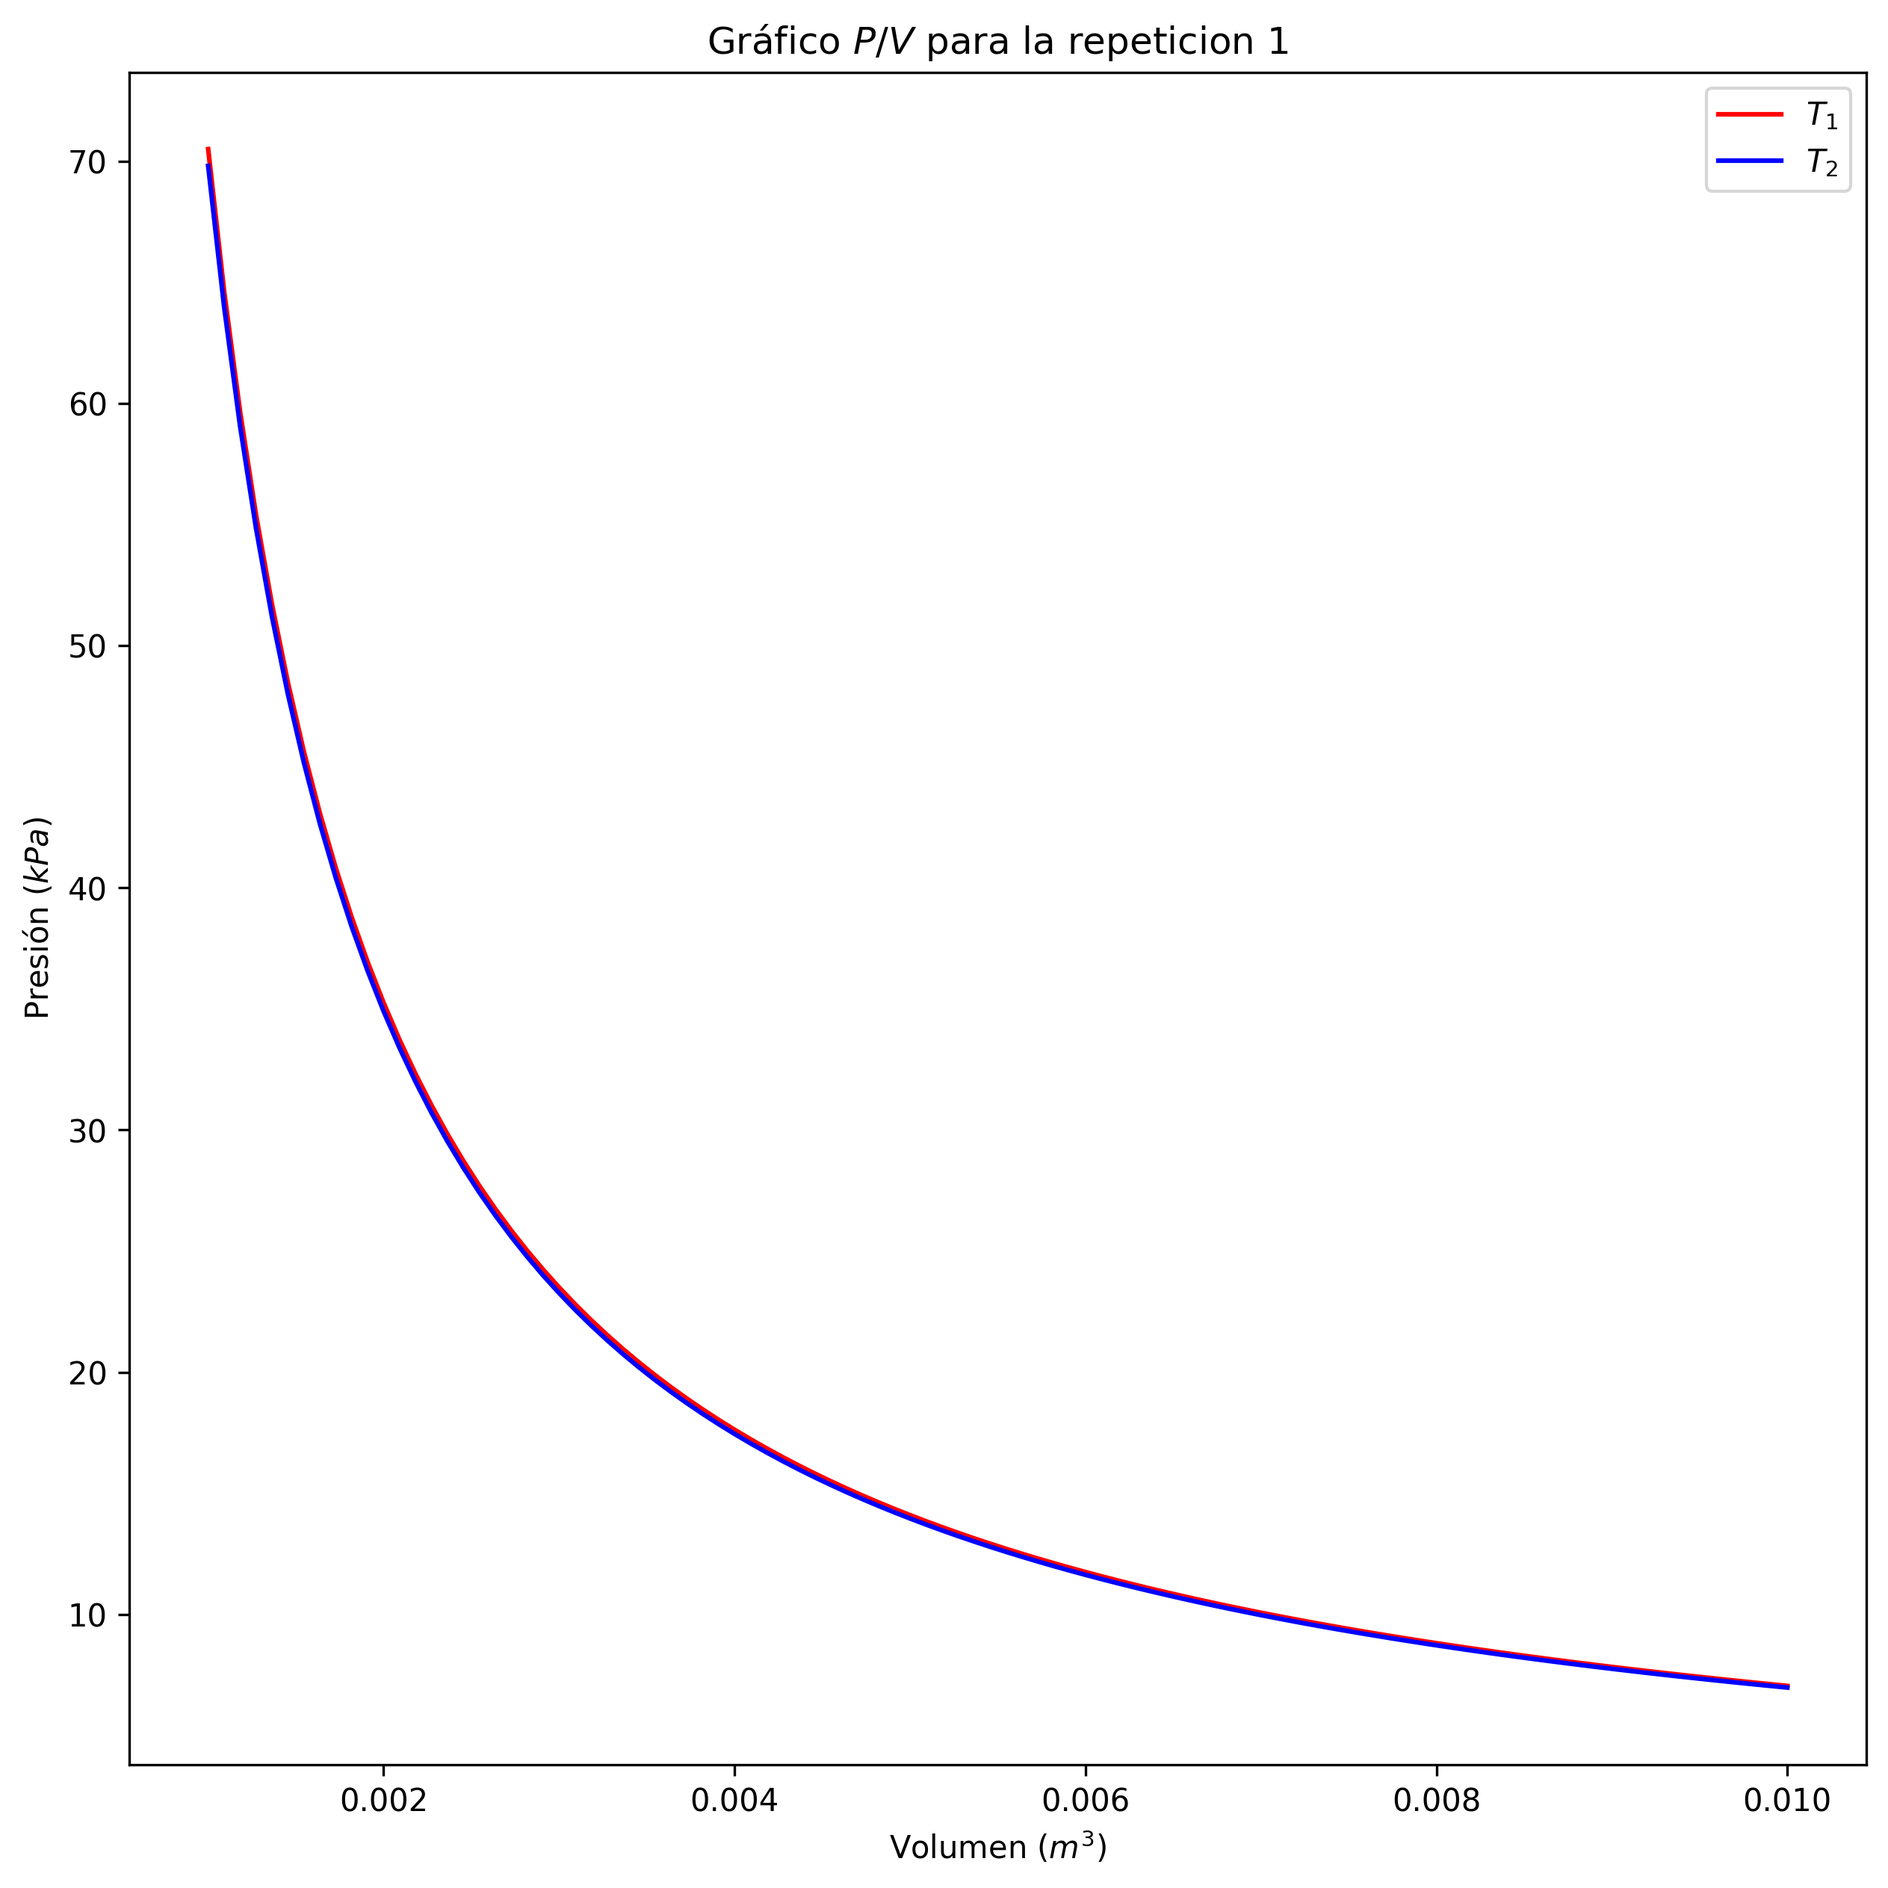
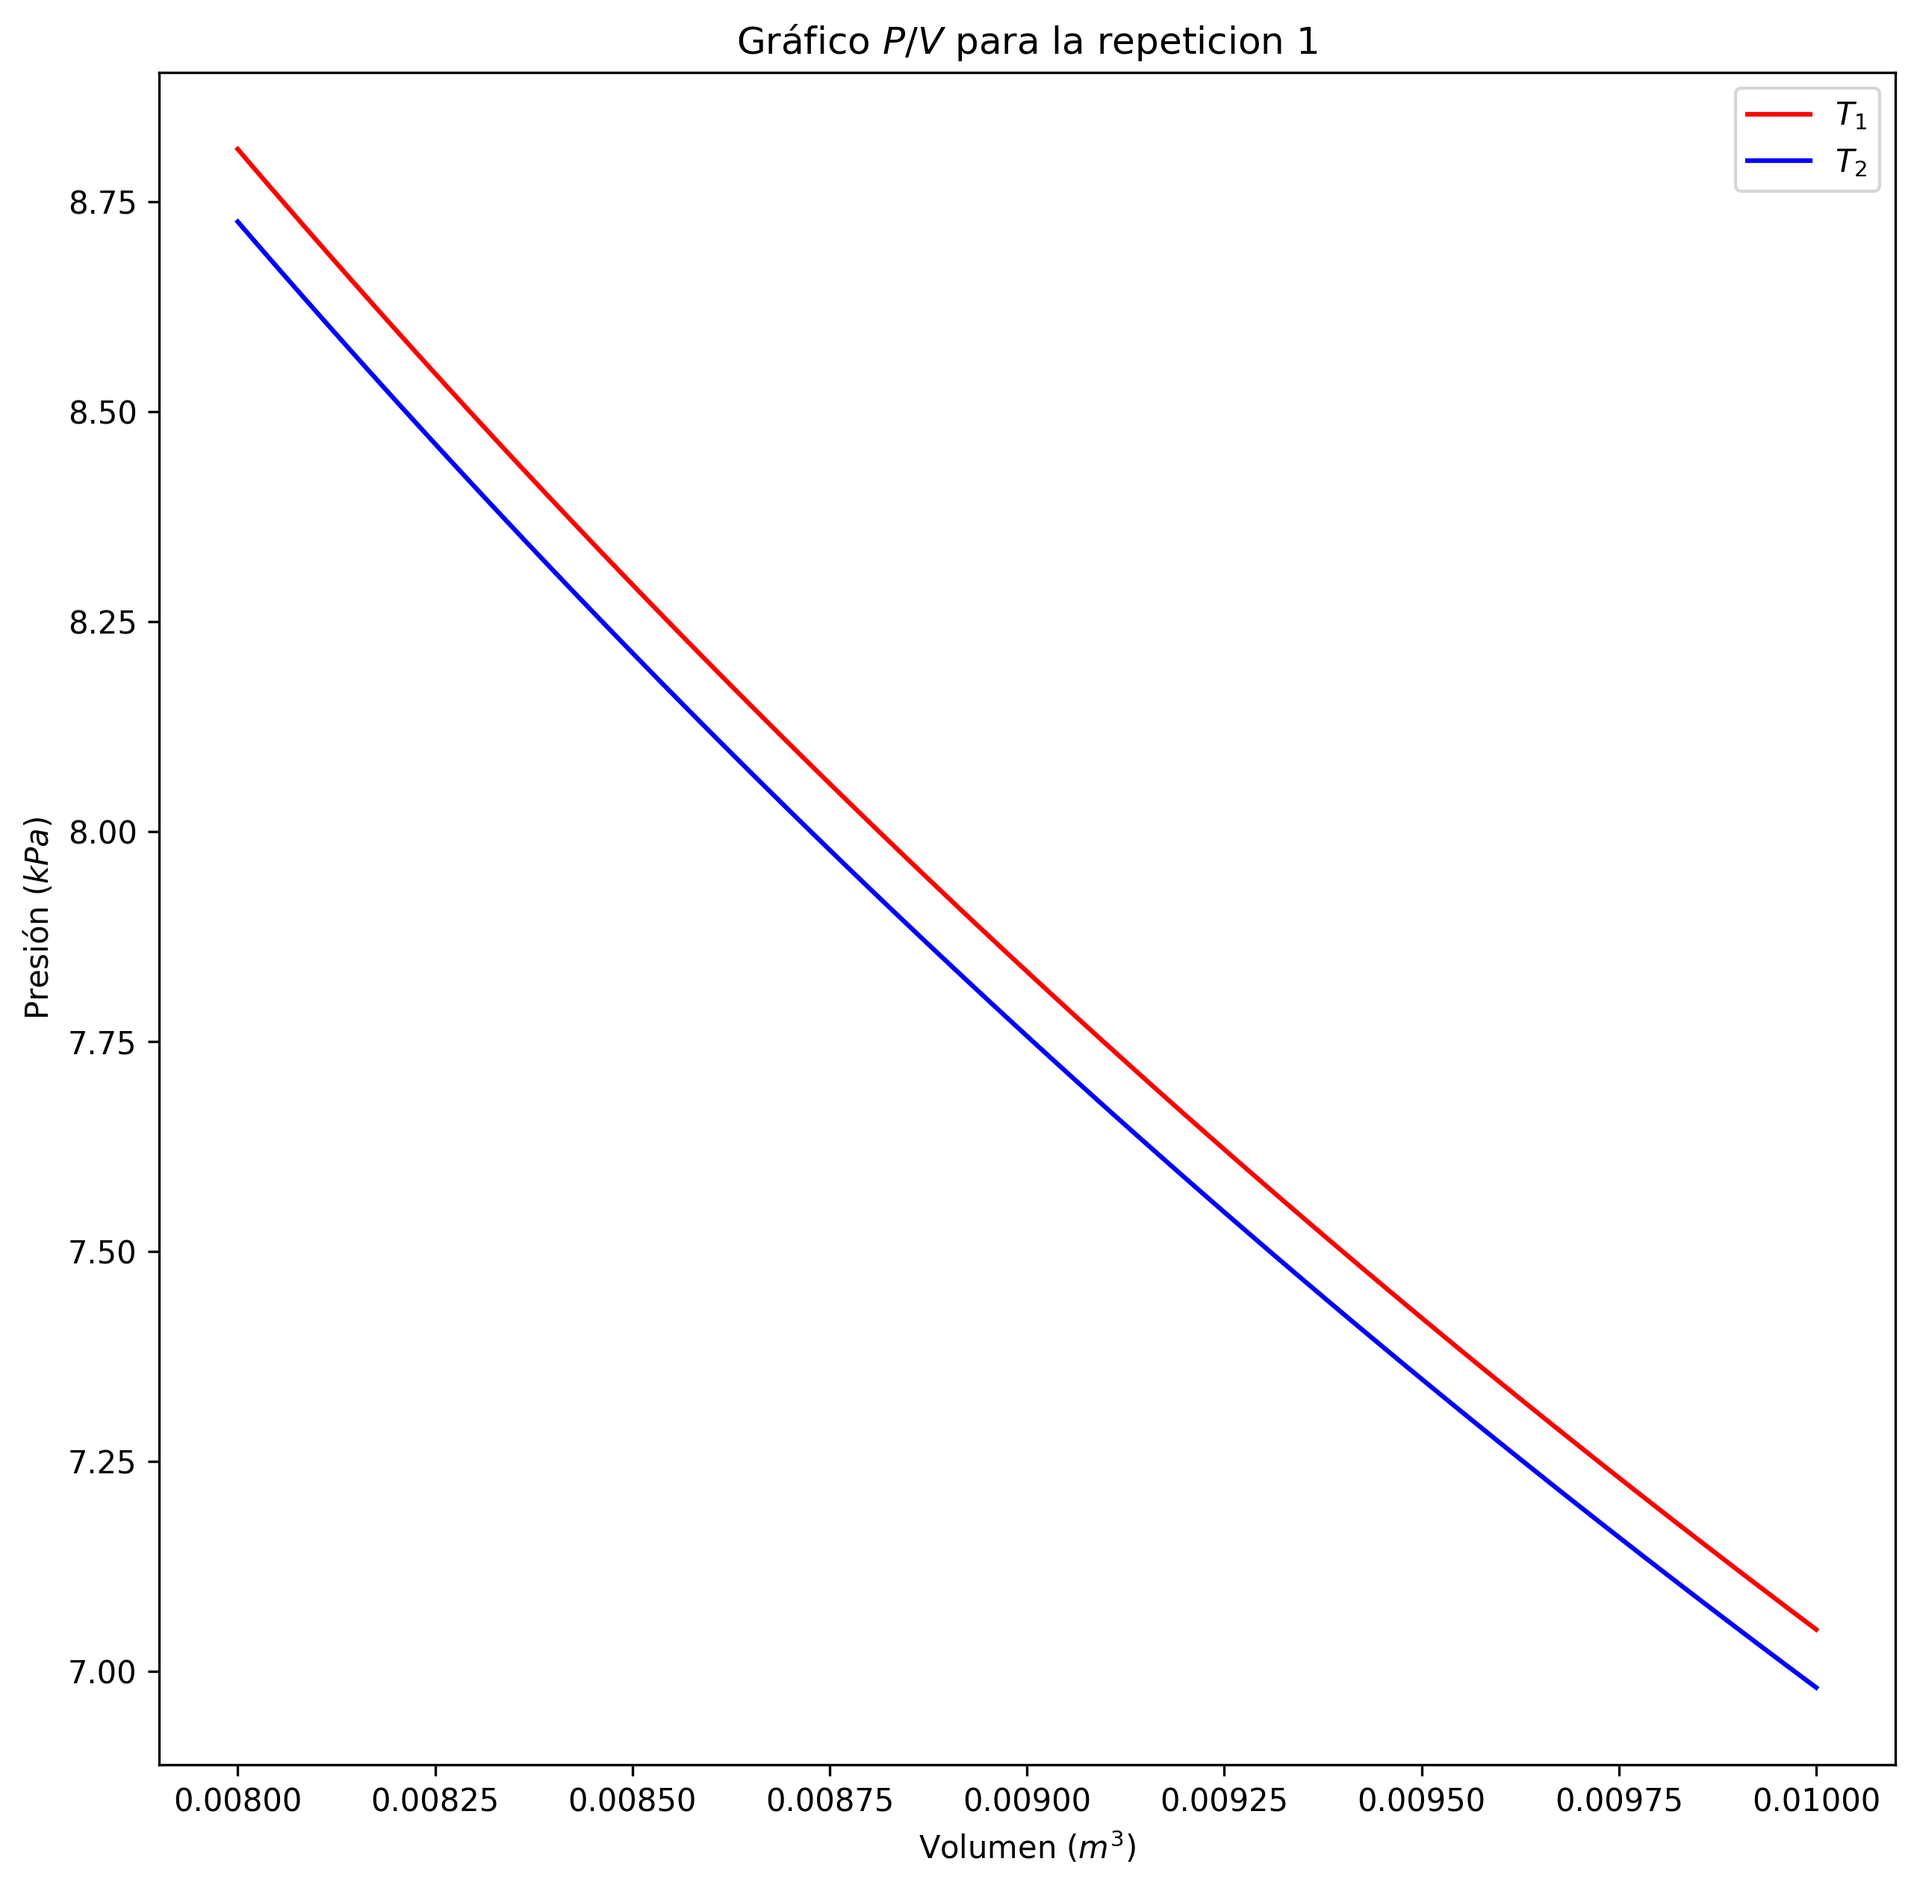
zoom-in de gráficos

diff --git a/Experimento 3/analisis.py b/Experimento 3/analisis.py
@@ -78,7 +78,7 @@ for i, row in data.iterrows():
     plt.xlabel('Volumen ($m^3$)')
     plt.ylabel('Presión ($kPa$)')
 
-    vol = np.linspace(0.001, 0.01, 100) #m3
+    vol = np.linspace(0.008, 0.01, 100) #m3
     #usamos la fórmula PV = nRT
     #dividimos por 1000 para pasar a kPa
     isoterma1 = data.at[i, 'moles'] * R * data.at[i, 't1'] / (vol * 1000)
